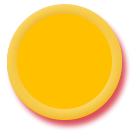
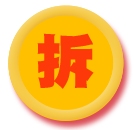
changed

diff --git a/gameBoxEx/TabBarViewCtrl/firstPage/activityView/RH_NormalActivithyView.m b/gameBoxEx/TabBarViewCtrl/firstPage/activityView/RH_NormalActivithyView.m
@@ -16,6 +16,8 @@
 @property (nonatomic,strong)RH_OpenActivityModel *openActivityModel;
 @property (weak, nonatomic) IBOutlet UILabel *gainActivityLabel;
 @property (weak, nonatomic) IBOutlet UILabel *nextOpentimeLabel;
+@property (weak, nonatomic) IBOutlet UIButton *openActivityBtn;
+@property (weak, nonatomic) IBOutlet UIButton *openActivityFriestBtn;
 @end
 @implementation RH_NormalActivithyView
 
@@ -42,9 +44,23 @@
 }
 -(void)setOpenModel:(RH_OpenActivityModel *)openModel
 {
-    if (![_openModel isEqual:openModel]){
+    
+    if (![_openModel.mGameNum isEqual:openModel.mGameNum]){
         _openModel = openModel ;
         [self.gainActivityLabel setText:self.openModel.mAward];
+        if ([self.openModel.mGameNum isEqualToString:@"60"]) {
+            [self.openActivityBtn setBackgroundImage:[UIImage imageNamed:@"button-can'topen"] forState:UIControlStateNormal];
+            [self.openActivityFriestBtn setBackgroundImage:[UIImage imageNamed:@"button-can'topen"] forState:UIControlStateNormal];
+            self.openActivityBtn.userInteractionEnabled=NO;
+            self.openActivityFriestBtn.userInteractionEnabled = NO;
+        }
+        else
+        {
+            [self.openActivityBtn setBackgroundImage:[UIImage imageNamed:@"button-01"] forState:UIControlStateNormal];
+            [self.openActivityFriestBtn setBackgroundImage:[UIImage imageNamed:@"button-01"] forState:UIControlStateNormal];
+            self.openActivityBtn.userInteractionEnabled=YES;
+            self.openActivityFriestBtn.userInteractionEnabled = YES;
+        }
     }
 }
 - (IBAction)gameRuleSeletcd:(id)sender {
@@ -55,6 +71,11 @@
     
 }
 - (IBAction)closeClick:(id)sender {
+    [self.delegate normalActivityViewCloseActivityClick:self];
+    self.backDropImageView.image = [UIImage imageNamed:@"hongbao-03"];
+    [self.normalBackDropView setHidden: YES];
+    [self.activityRuleDropView setHidden:NO];
+    [self.openActivityView setHidden:YES];
     
 }
 - (IBAction)besureSeleted:(id)sender {

diff --git a/gameBoxEx/TabBarViewCtrl/firstPage/RH_FirstPageViewControllerEx.m b/gameBoxEx/TabBarViewCtrl/firstPage/RH_FirstPageViewControllerEx.m
@@ -45,6 +45,8 @@
 @property (nonatomic,strong,readonly) RH_ActivithyView *activityView ;
 @property (nonatomic,strong)RH_OpenActivityModel *openActivityModel;
 @property (nonatomic,strong,readonly) RH_NormalActivithyView *normalActivityView;
+@property (nonatomic,strong)UIView *shadeView;
+
 @end
 
 @implementation RH_FirstPageViewControllerEx
@@ -341,11 +343,25 @@
     }
     return _normalActivityView;
 }
+#pragma mark 拆红包代理
 -(void)normalActivithyViewOpenActivityClick:(RH_NormalActivithyView *)view
 {
     RH_HomePageModel *homePageModel = ConvertToClassPointer(RH_HomePageModel, [self.pageLoadManager dataAtIndex:0]) ;
-    [self.serviceRequest startV3OpenActivity:homePageModel.mActivityInfo.mActivityID andGBtoken:self.activityModel.mToken];
+    if (self.openActivityModel.mToken==nil) {
+        [self.serviceRequest startV3OpenActivity:homePageModel.mActivityInfo.mActivityID andGBtoken:self.activityModel.mToken];
+    }
+    else
+    {
+        [self.serviceRequest startV3OpenActivity:homePageModel.mActivityInfo.mActivityID andGBtoken:self.openActivityModel.mToken];
+    }
+    
 }
+-(void)normalActivityViewCloseActivityClick:(RH_NormalActivithyView *)view
+{
+    [self.shadeView removeFromSuperview];
+    [self.normalActivityView removeFromSuperview];
+}
+
 -(void)activithyViewDidTouchActivityView:(RH_ActivithyView*)activityView
 {
     if (self.appDelegate.isLogin){
@@ -358,6 +374,7 @@
             bigView.backgroundColor = [UIColor grayColor];
             bigView.alpha = 0.8;
             [[UIApplication sharedApplication].keyWindow addSubview:bigView];
+            _shadeView = bigView;
             UIImageView *imageView = [[UIImageView alloc]initWithFrame:CGRectMake(self.view.frameWidth - activithyViewWidth -5,self.view.frameHeigh - activithyViewHeigh ,activithyViewWidth,activithyViewHeigh)];
             imageView.image = activityView.imgView.image;
             [[UIApplication sharedApplication].keyWindow addSubview:imageView];

diff --git a/gameBoxEx/TabBarViewCtrl/minePage/withdrawdisposit/RH_WithdrawDispositController.m b/gameBoxEx/TabBarViewCtrl/minePage/withdrawdisposit/RH_WithdrawDispositController.m
@@ -1,0 +1,37 @@
+//
+//  RH_WithdrawDispositController.m
+//  gameBoxEx
+//
+//  Created by lewis on 2018/1/11.
+//  Copyright © 2018年 luis. All rights reserved.
+//
+
+#import "RH_WithdrawDispositController.h"
+
+@interface RH_WithdrawDispositController ()
+
+@end
+
+@implementation RH_WithdrawDispositController
+
+- (void)viewDidLoad {
+    [super viewDidLoad];
+    // Do any additional setup after loading the view.
+}
+
+- (void)didReceiveMemoryWarning {
+    [super didReceiveMemoryWarning];
+    // Dispose of any resources that can be recreated.
+}
+
+/*
+#pragma mark - Navigation
+
+// In a storyboard-based application, you will often want to do a little preparation before navigation
+- (void)prepareForSegue:(UIStoryboardSegue *)segue sender:(id)sender {
+    // Get the new view controller using [segue destinationViewController].
+    // Pass the selected object to the new view controller.
+}
+*/
+
+@end

diff --git a/gameBoxEx/TabBarViewCtrl/minePage/withdrawdisposit/RH_WithdrawDispositCell.m b/gameBoxEx/TabBarViewCtrl/minePage/withdrawdisposit/RH_WithdrawDispositCell.m
@@ -1,0 +1,24 @@
+//
+//  RH_WithdrawDispositCell.m
+//  gameBoxEx
+//
+//  Created by lewis on 2018/1/11.
+//  Copyright © 2018年 luis. All rights reserved.
+//
+
+#import "RH_WithdrawDispositCell.h"
+
+@implementation RH_WithdrawDispositCell
+
+- (void)awakeFromNib {
+    [super awakeFromNib];
+    // Initialization code
+}
+
+- (void)setSelected:(BOOL)selected animated:(BOOL)animated {
+    [super setSelected:selected animated:animated];
+
+    // Configure the view for the selected state
+}
+
+@end

diff --git a/gameBoxEx/TabBarViewCtrl/firstPage/activityView/RH_NormalActivithyView.h b/gameBoxEx/TabBarViewCtrl/firstPage/activityView/RH_NormalActivithyView.h
@@ -12,6 +12,7 @@
 @class RH_NormalActivithyView;
 @protocol RH_NormalActivithyViewDelegate<NSObject>
 -(void)normalActivithyViewOpenActivityClick:(RH_NormalActivithyView *)view;
+-(void)normalActivityViewCloseActivityClick:(RH_NormalActivithyView *)view;
 @end
 @interface RH_NormalActivithyView : UIView
 @property (nonatomic,copy)NSString *gainStr;

diff --git a/gameBoxEx/TabBarViewCtrl/minePage/withdrawdisposit/RH_WithdrawDispositController.h b/gameBoxEx/TabBarViewCtrl/minePage/withdrawdisposit/RH_WithdrawDispositController.h
@@ -1,0 +1,13 @@
+//
+//  RH_WithdrawDispositController.h
+//  gameBoxEx
+//
+//  Created by lewis on 2018/1/11.
+//  Copyright © 2018年 luis. All rights reserved.
+//
+
+#import "RH_BasicPageLoadViewController.h"
+
+@interface RH_WithdrawDispositController : RH_BasicPageLoadViewController
+
+@end

diff --git a/gameBoxEx/TabBarViewCtrl/minePage/withdrawdisposit/RH_WithdrawDispositCell.h b/gameBoxEx/TabBarViewCtrl/minePage/withdrawdisposit/RH_WithdrawDispositCell.h
@@ -1,0 +1,13 @@
+//
+//  RH_WithdrawDispositCell.h
+//  gameBoxEx
+//
+//  Created by lewis on 2018/1/11.
+//  Copyright © 2018年 luis. All rights reserved.
+//
+
+#import "CLTableViewCell.h"
+
+@interface RH_WithdrawDispositCell : CLTableViewCell
+
+@end
